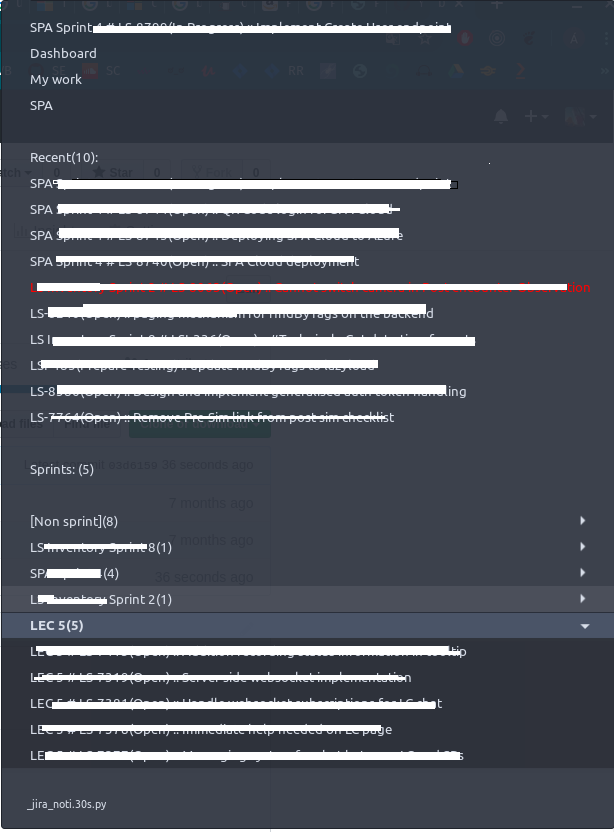
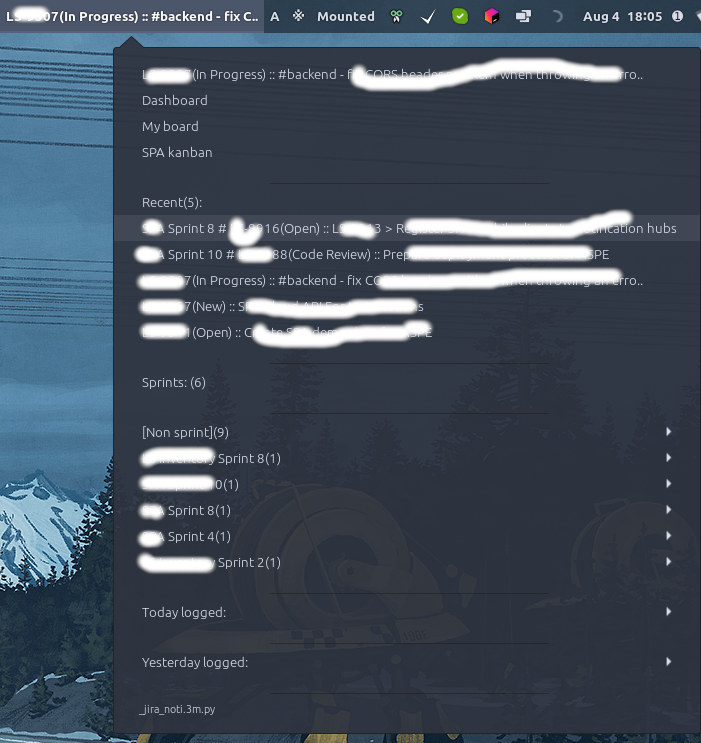
MOD: added today spend time on task; added some fine tune too

diff --git a/jira_noti.py b/jira_noti.py
@@ -15,6 +15,7 @@ import re
 import datetime
 import time
 import os
+import json
 
 bitbar_header = ['BB', '---']
 # As some above have stated, using an API token will work (for JIRA Cloud).
@@ -199,7 +200,7 @@ def get_in_progress_item(issues):
 
   ###############################################################################
   content = '\n'.join(bitbar_header)
-  print (content)
+  print(content)
   
   with open(CACHE_FILE, "w+") as f:
     f.write(content)
@@ -208,6 +209,71 @@ def get_in_progress_item(issues):
     f.write(time.ctime())
     f.close()
 
+  return (content)
+
+
+def getParsedIssues():
+  log = logging.getLogger(__name__)
+  jira = connect_jira(log, SERVER, USER, PASSW)
+  log = ""
+  if ( jira is not None):
+    issues = jira.search_issues(assignee)
+    if(len(issues) > 0):
+      log = get_in_progress_item(issues)
+    else:
+      bitbar_header = ['No jira issue', '---', 'Connection error?']
+      log = ('\n'.join(bitbar_header))
+
+    issues2 = jira.search_issues('assignee was in (currentuser()) and updatedDate < endOfDay() AND updatedDate > -1d ORDER BY updatedDate DESC, created ASC',fields=['key', 'project', 'timeSpent', 'worklog'], maxResults=30)
+    # issues2 = jira.search_issues('assignee was in (currentuser()) and updatedDate >= startOfDay() and updatedDate < endOfDay() ORDER BY updatedDate DESC, created ASC',fields=['key', 'project', 'timeSpent', 'worklog'], maxResults=30)
+    if(len(issues2) > 0):
+      log = log + get_time_spent_by_day(issues2)
+  return log
+
+def get_time_spent_by_day(issues):
+  i = 0
+  today_time_spent = []
+  today_time_spent.append("%s" % ('--'))
+  today_time_spent.append("%s" % ('Today logged:'))
+  today_time_spent.append("%s" % ('--'))
+
+  yesterday_time_spent = []
+  yesterday_time_spent.append("%s" % ('--'))
+  yesterday_time_spent.append("%s" % ('Yesterday logged:'))
+  yesterday_time_spent.append("%s" % ('--'))
+  for issue in issues:
+    # print(issue)
+    log_entry_count = len(issue.fields.worklog.worklogs)
+    # print( issue.key, issue.fields.project, issue.fields.worklog.worklogs[i].timeSpent, 
+    #     issue.fields.worklog.worklogs[i].updated, issue.fields.worklog.worklogs[i].updateAuthor)
+    for i in range(log_entry_count):
+      issue_strd = issue.fields.worklog.worklogs[i].updated
+      issue_strd = issue_strd[0:issue_strd.find("+")]
+      # print(issue_strd)
+      issue_d = datetime.datetime.strptime(issue_strd, '%Y-%m-%dT%H:%M:%S.%f')
+
+      comment=''
+      if hasattr(issue.fields.worklog.worklogs[i], 'comment'):
+        comment = issue.fields.worklog.worklogs[i].comment
+      status = "[" + str(issue.fields.worklog.worklogs[i].updateAuthor) + "] " + str(issue.key) + " :: " + str(issue.fields.worklog.worklogs[i].timeSpent) + " - " + str(comment)
+
+      if(len(status) > TICKETLENGTH):
+        status = status[0:TICKETLENGTH] + '..'
+      else:
+        status = status[0:TICKETLENGTH]
+      status = status + " | href=https://cae-hc.atlassian.net/browse/" + str(issue.key)
+      if(issue_d.day == datetime.date.today().day):
+        # print( issue.key, issue.fields.project, issue.fields.worklog.worklogs[i].timeSpent, 
+        #   issue.fields.worklog.worklogs[i].updated, issue.fields.worklog.worklogs[i].updateAuthor)
+        today_time_spent.append("%s" % (status))
+
+      yesterday_d = datetime.datetime.strptime( ((datetime.datetime.now() - datetime.timedelta(1)).strftime('%Y-%m-%d')), '%Y-%m-%d' )
+      if(issue_d.day == yesterday_d.day):
+        yesterday_time_spent.append("%s" % (status))
+    # return
+  content = '\n'.join(today_time_spent) + '\n'.join(yesterday_time_spent)
+  print(content)
+  return (content)
 
 def main():
 
@@ -220,6 +286,12 @@ def main():
     else:
       bitbar_header = ['No jira issue', '---', 'Connection error?']
       print ('\n'.join(bitbar_header))
+
+    issues2 = jira.search_issues('assignee was in (currentuser()) and updatedDate < endOfDay() AND updatedDate > -1d ORDER BY updatedDate DESC, created ASC',fields=['key', 'project', 'timeSpent', 'worklog'], maxResults=30)
+    # issues2 = jira.search_issues('assignee was in (currentuser()) and updatedDate >= startOfDay() and updatedDate < endOfDay() ORDER BY updatedDate DESC, created ASC',fields=['key', 'project', 'timeSpent', 'worklog'], maxResults=30)
+    if(len(issues2) > 0):
+      get_time_spent_by_day(issues2)
+
   else:
     
     stored_issues=""
@@ -231,5 +303,5 @@ def main():
       bitbar_header = ['No jira issue (no cache)', '---', 'Connection error!!']
       print ('\n'.join(bitbar_header))
    
-
 main()
+
